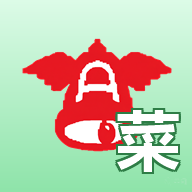
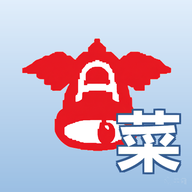
ui: 图标背景改蓝(菜字描边同步转蓝)，manifest/主题色改蓝

diff --git a/index.html b/index.html
@@ -1,7 +1,7 @@
 <!DOCTYPE html>
 <html lang="zh-CN">
 <head>
-<meta charset="UTF-8"><meta name="viewport" content="width=device-width,initial-scale=1.0,maximum-scale=1.0,user-scalable=no,interactive-widget=resizes-content"><meta name="theme-color" content="#4CAF50"><meta name="mobile-web-app-capable" content="yes"><meta name="apple-mobile-web-app-capable" content="yes"><meta name="apple-mobile-web-app-status-bar-style" content="default"><meta name="apple-mobile-web-app-title" content="采购助手"><title>贝尔安亲采购助手</title>
+<meta charset="UTF-8"><meta name="viewport" content="width=device-width,initial-scale=1.0,maximum-scale=1.0,user-scalable=no,interactive-widget=resizes-content"><meta name="theme-color" content="#2196f3"><meta name="mobile-web-app-capable" content="yes"><meta name="apple-mobile-web-app-capable" content="yes"><meta name="apple-mobile-web-app-status-bar-style" content="default"><meta name="apple-mobile-web-app-title" content="采购助手"><title>贝尔安亲采购助手</title>
 <link rel="manifest" href="manifest.json">
 <link rel="icon" type="image/png" sizes="192x192" href="icon-192.png">
 <link rel="apple-touch-icon" sizes="192x192" href="icon-192.png">

diff --git a/sw.js b/sw.js
@@ -2,7 +2,7 @@
 // 修复点：静态资源由“缓存优先、后台更新”改为“网络优先、断网回退缓存”。
 // 这样改动页面/JS 后，用户无需手动升级版本号也能在下次联网时加载到新版本；
 // 同时保留断网时回退到已缓存资源的离线能力。
-const CACHE_NAME = 'bex-purchase-v19';
+const CACHE_NAME = 'bex-purchase-v20';
 
 // 相对路径，部署在二级目录（如 /menu/）时也能正确缓存
 const SHELL = ['./', './index.html', './manifest.json', './icon-192.png', './icon-512.png', './xlsx.full.min.js', './supabase.min.js'];
